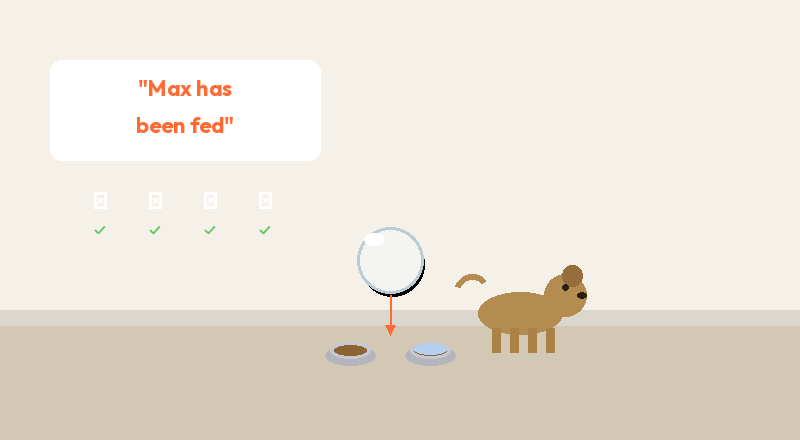
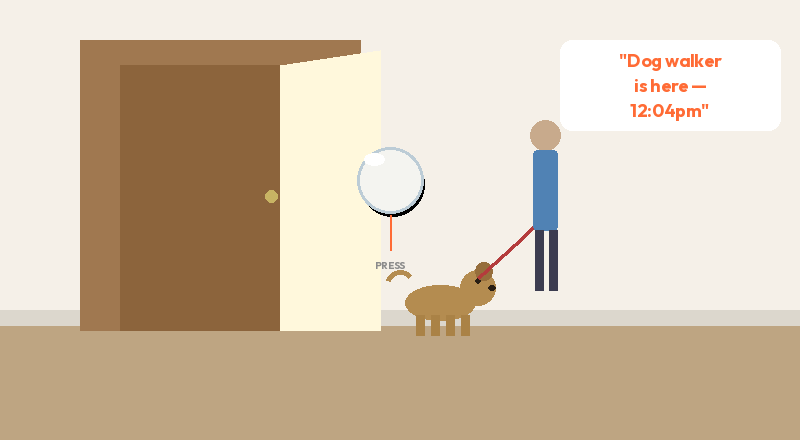
Change dog feeding to dog walker use case, remove ILLUMRA references
- Updated use case: "Did the dog get fed?" → "Did my dog walker come?"
- New scenario about verifying dog walker visits with timestamp texts
- Updated illustration to show walker with dog on leash at front door
- Removed ILLUMRA brand mention from credibility section

diff --git a/public/index.html b/public/index.html
@@ -416,12 +416,12 @@
                 <div class="use-case-card bg-white rounded-xl shadow-md card-hover scroll-reveal" style="animation-delay: 0.45s" onclick="toggleUseCase(this)">
                     <div class="use-case-img h-44 rounded-t-xl bg-cover bg-center" style="background-image: url('images/usecase-dog.png'); background-color: #FFF5F0;"></div>
                     <div class="p-5">
-                        <div class="text-3xl mb-2">&#x1F415;</div>
-                        <h4 class="font-bold text-gray-900 text-lg">Did the dog get fed?</h4>
+                        <div class="text-3xl mb-2">&#x1F6B6;</div>
+                        <h4 class="font-bold text-gray-900 text-lg">Did my dog walker come?</h4>
                     </div>
                     <div class="use-case-desc text-sm text-gray-600 border-t border-gray-100">
-                        <strong>The scenario:</strong> Four people in the house. One dog. Nobody can remember who fed him this morning. So either the dog gets fed twice (hello, vet bill) or not at all (hello, guilt). "Did you feed Max?" is asked at least once a day.<br><br>
-                        <strong>The fix:</strong> ProofButton goes right above the dog bowl. Feed the dog, press the button. Everyone in the house gets a text: <em>"Max has been fed."</em> No more double-feeding, no more missed meals. Max gets exactly what he needs, every time.
+                        <strong>The scenario:</strong> You pay a dog walker $20 a visit to come while you're at work. They say they came at noon, but your dog still seems full of energy when you get home. You have no way to verify without installing cameras — and even then, who wants to review footage every day?<br><br>
+                        <strong>The fix:</strong> Stick a ProofButton right inside your front door. The walker presses it when they arrive. You get a text at work: <em>"Dog walker is here — 12:04pm."</em> No cameras. No awkward conversations. Just a simple timestamp that gives you peace of mind. You know your dog is getting the walk you're paying for.
                     </div>
                 </div>
 
@@ -445,7 +445,7 @@
         <div class="max-w-6xl mx-auto">
             <h2 class="text-4xl font-bold text-center mb-4 scroll-reveal">This Isn't a Concept &mdash; It's a Product</h2>
             <p class="text-center text-gray-600 mb-16 text-lg scroll-reveal" style="animation-delay: 0.1s">
-                From the makers of ILLUMRA &mdash; 20+ years in manufacturing
+                Backed by 20+ years in hardware manufacturing
             </p>
 
             <div class="grid md:grid-cols-3 gap-8 mb-12">
